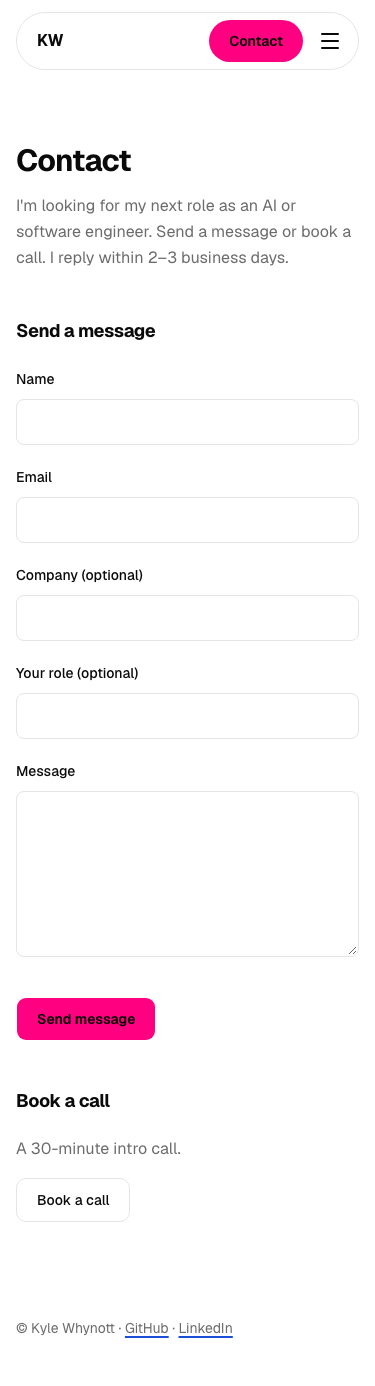
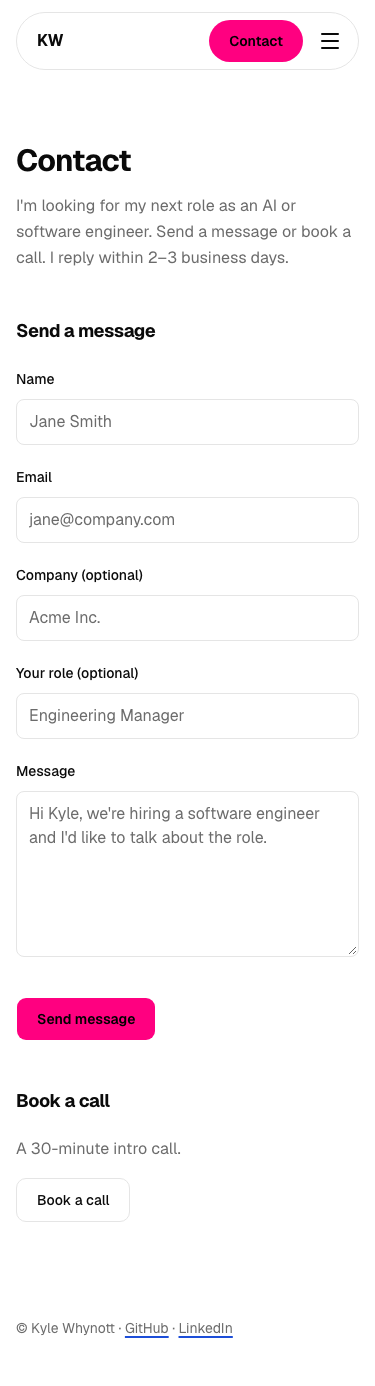
feat(contact): example placeholders in every field (Kyle)
Claude-Session: https://claude.ai/code/session_01N5M7LMEi61DpJ264MgKNqJ

diff --git a/src/components/contact/contact-form.tsx b/src/components/contact/contact-form.tsx
@@ -35,6 +35,15 @@ const LABELS: Record<ContactField, string> = {
   role: "Your role (optional)",
   message: "Message",
 };
+// Examples only; the labels above each field name it (Kyle, 2026-11-26).
+const PLACEHOLDERS: Record<ContactField, string> = {
+  name: "Jane Smith",
+  email: "jane@company.com",
+  company: "Acme Inc.",
+  role: "Engineering Manager",
+  message:
+    "Hi Kyle, we're hiring a software engineer and I'd like to talk about the role.",
+};
 const AUTOCOMPLETE: Record<ContactField, string> = {
   name: "name",
   email: "email",
@@ -44,7 +53,7 @@ const AUTOCOMPLETE: Record<ContactField, string> = {
 };
 
 const field =
-  "mt-2 block w-full rounded-md border border-input bg-background px-3 py-2.5 text-base text-foreground aria-[invalid=true]:border-destructive";
+  "mt-2 block w-full rounded-md border border-input bg-background px-3 py-2.5 text-base text-foreground placeholder:text-muted-foreground aria-[invalid=true]:border-destructive";
 
 /*
  * The message form. Turnstile (managed, invisible unless Cloudflare needs a
@@ -164,6 +173,7 @@ export function ContactForm({ siteKey }: { siteKey: string | undefined }) {
                 f === "email" ? "email" : f === "message" ? undefined : "text"
               }
               autoComplete={AUTOCOMPLETE[f]}
+              placeholder={PLACEHOLDERS[f]}
               rows={f === "message" ? 6 : undefined}
               value={values[f]}
               onChange={(e) =>

diff --git a/tests/unit/contact-form.test.tsx b/tests/unit/contact-form.test.tsx
@@ -169,3 +169,21 @@ test("missing siteKey → failure line, no fetch", async () => {
   expect(fetchMock).not.toHaveBeenCalled();
   expect(loadScript).not.toHaveBeenCalled();
 });
+
+test("each field shows an example placeholder", () => {
+  render(<ContactForm siteKey="site" />);
+  const expected: Record<string, string> = {
+    Name: "Jane Smith",
+    Email: "jane@company.com",
+    "Company (optional)": "Acme Inc.",
+    "Your role (optional)": "Engineering Manager",
+    Message:
+      "Hi Kyle, we're hiring a software engineer and I'd like to talk about the role.",
+  };
+  for (const [label, placeholder] of Object.entries(expected)) {
+    const el = screen.getByLabelText(label);
+    expect(el).toHaveAttribute("placeholder", placeholder);
+    // The label, not the placeholder, names the field.
+    expect(el).toHaveAccessibleName(label);
+  }
+});

diff --git a/docs/plans/slice-05-pr.md b/docs/plans/slice-05-pr.md
@@ -60,6 +60,7 @@ https://portv3-git-slice-05-contact-kynot54s-projects.vercel.app/contact (sign i
 
 ## Needs Kyle's call
 
+- **Placeholder examples** (your request): Name "Jane Smith", Email "jane@company.com", Company "Acme Inc.", Your role "Engineering Manager", Message "Hi Kyle, we're hiring a software engineer and I'd like to talk about the role." They're in muted grey, and the labels still name every field.
 - **Copy:**
   - "Send a message", "Book a call", "A 30-minute intro call."
   - the labels, "Send message", "Sending…"
